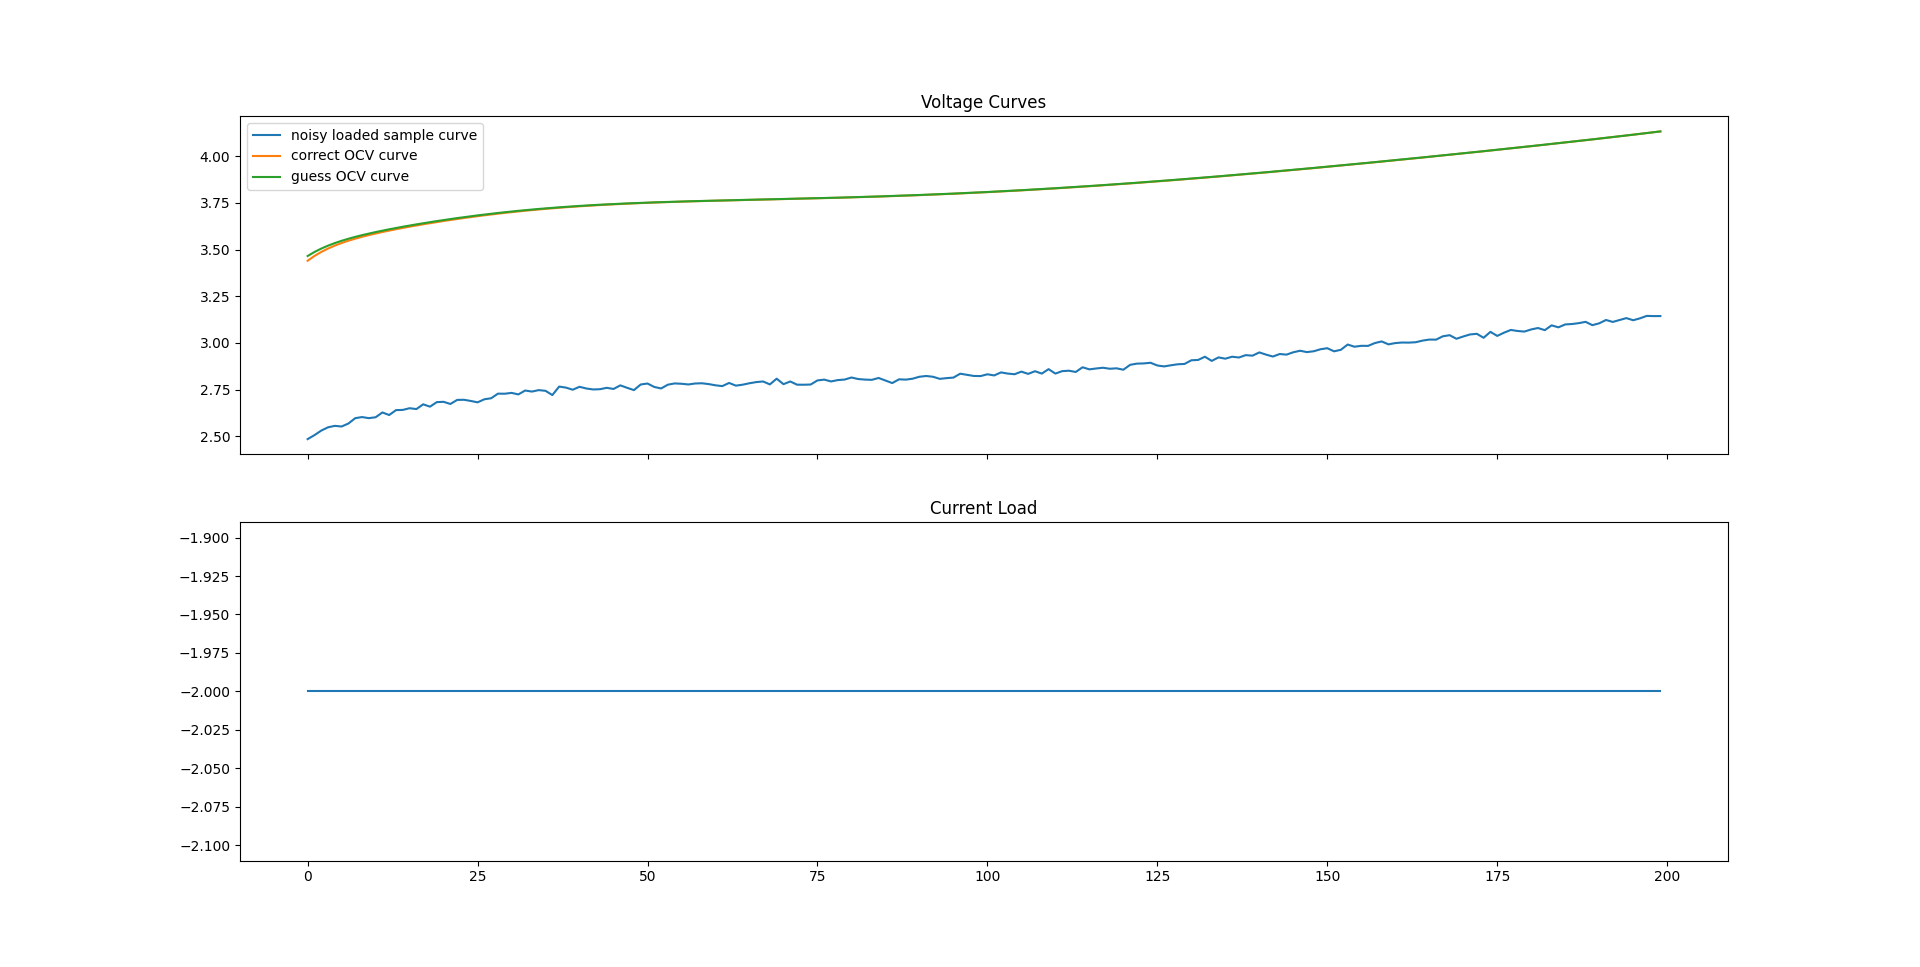
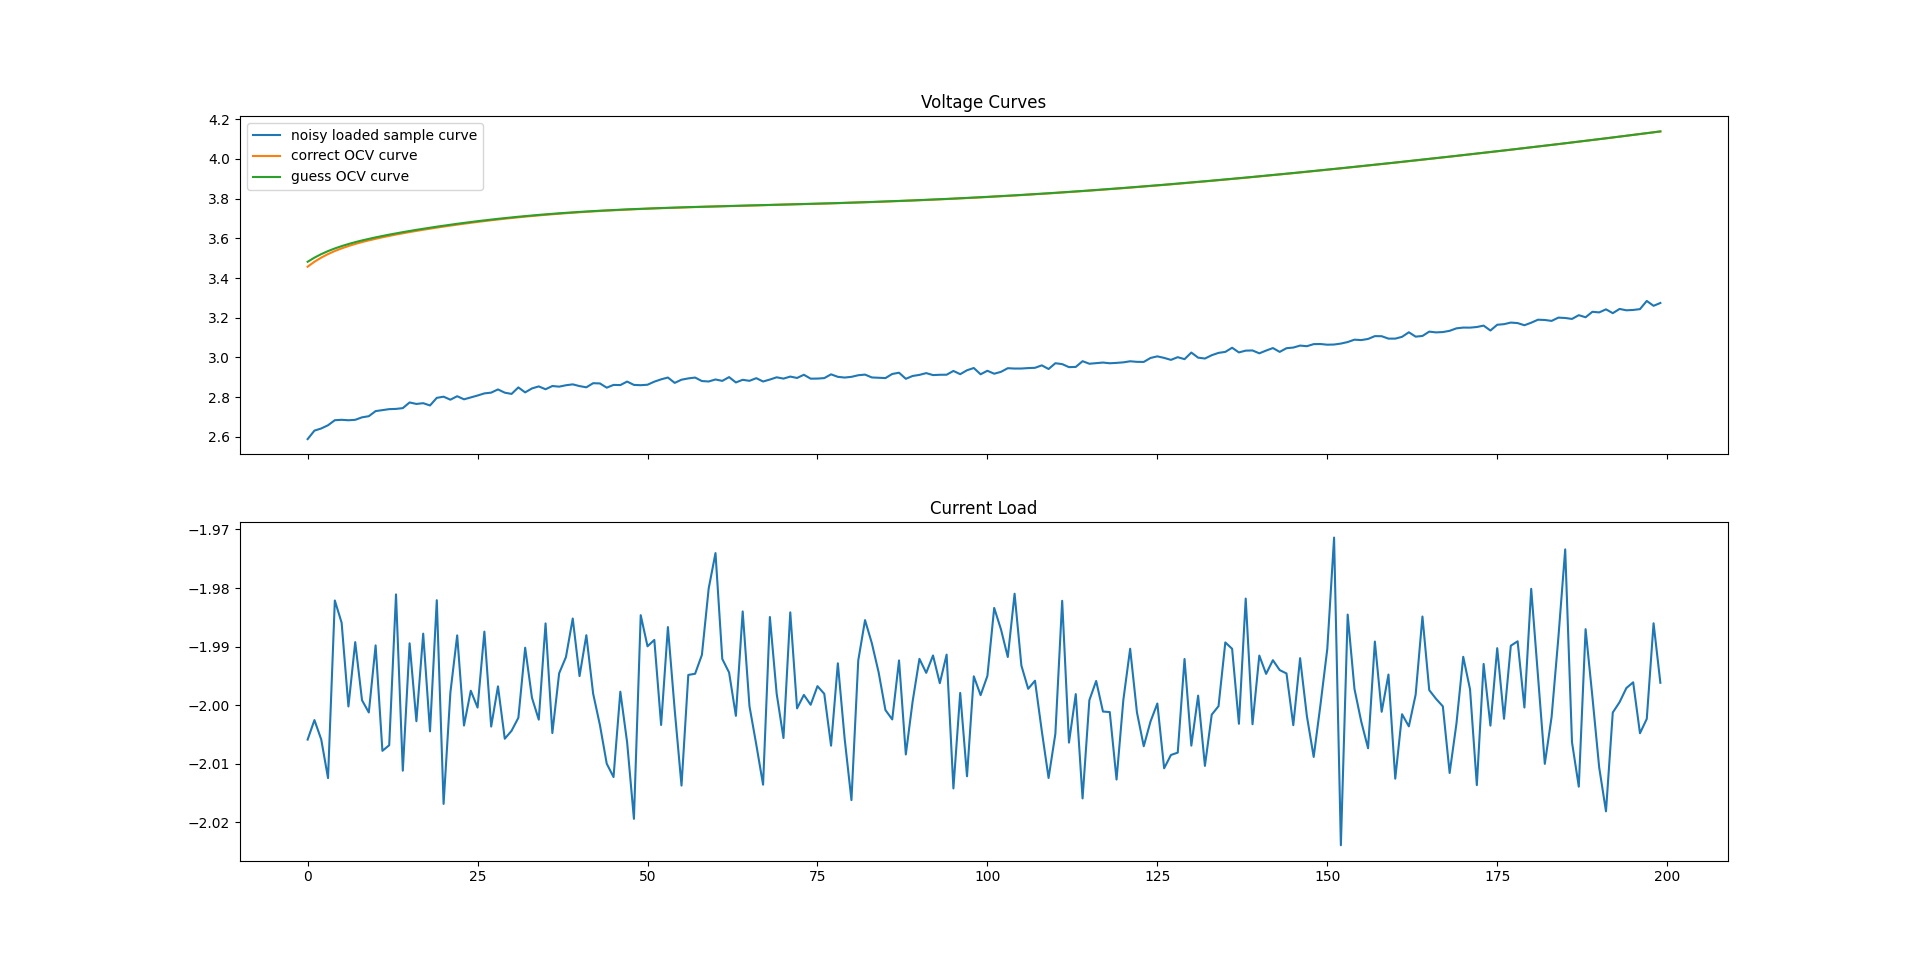
need to get figure for noisy current

diff --git a/estimation.py b/estimation.py
@@ -118,7 +118,7 @@ if __name__ == '__main__':
             ax[0].plot(Vo[::-1], label='guess OCV curve')
             ax[0].legend()
             ax[0].set_title('Voltage Curves')
-            ax[1].plot(I, label='noisy loaded sample curve')
+            ax[1].plot(Ibatt, label='noisy loaded sample curve')
             ax[1].set_title('Current Load')
             plt.show()
 
